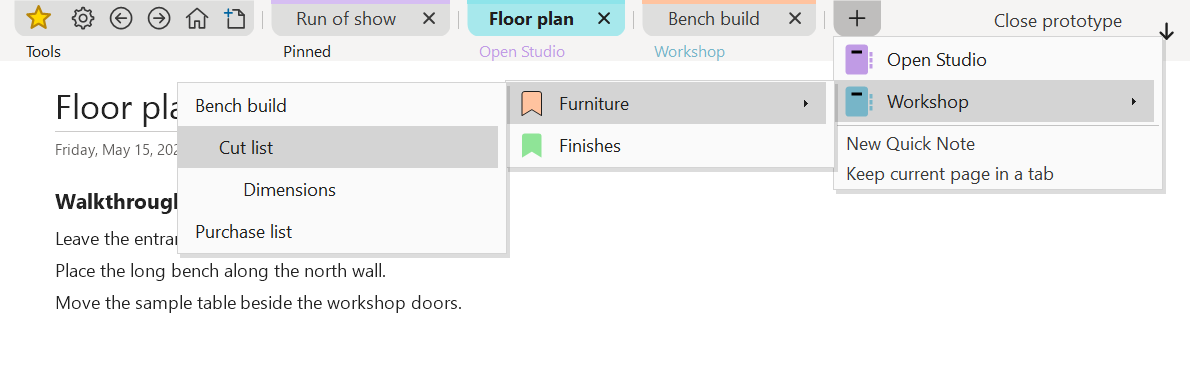
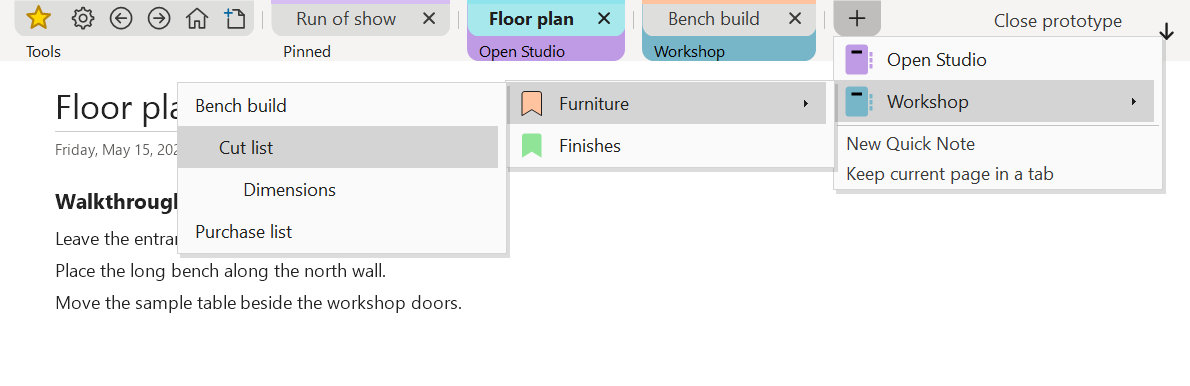
Give notebook groups rounded color bands and contrasting labels

Changed region(s): [[0.3731, 0.0933, 0.684, 0.1554]]

diff --git a/addins/page-tabs/prototype/AppearanceTests.cs b/addins/page-tabs/prototype/AppearanceTests.cs
@@ -58,6 +58,13 @@ internal static class AppearanceTests
                 }
                 strip.Host.Size = new Size(HostChrome.Px(950, dpi), HostChrome.StripHeight(dpi));
                 strip.ApplyAppearance(expected);
+                if (!contrast)
+                {
+                    var ordinary = strip.Items.OfType<PageTabButton>().Select(t => t.Group).Where(g => g.Notebook != null);
+                    Check(ordinary.Single(g => g.Text == "Atlas").ForeColor.ToArgb() == Color.White.ToArgb() &&
+                        ordinary.Single(g => g.Text == "Workshop").ForeColor.ToArgb() == Color.Black.ToArgb(),
+                        "Dark and light notebook bands must choose white and black caption text respectively.");
+                }
                 foreach (var selected in new[] { schedule, original })
                 {
                     selected.PerformClick();
@@ -99,7 +106,7 @@ internal static class AppearanceTests
         CheckOptions(strip, layout);
         Console.WriteLine("PASS long regular and bold titles leave clear space around the close icon at all four scales.");
         Console.WriteLine("PASS equal native-color tab stripes, muted selected fills and angled two-color bookmark rows at 96, 120, 144 and 192 DPI.");
-        Console.WriteLine("PASS compact notebook captions span the visible tabs in each group and use the notebook color at all four scales.");
+        Console.WriteLine("PASS rounded notebook backings, contrasting caption text and spacing at all four scales.");
         Console.WriteLine("PASS bookmark groups sort by notebook, retain page order and align section-color labels and page titles across groups.");
     }
 
@@ -151,9 +158,18 @@ internal static class AppearanceTests
         foreach (var surface in new[] { Color.White, Color.FromArgb(18,18,18) })
         {
             strip.ApplyAppearance(new HostChrome { Dpi = layout.Dpi, Surface = surface });
-            Check(grouped.All(t => t.Group.ForeColor == ((TabRenderer)strip.Renderer).Ink), "Default caption ink ignored the theme.");
+            Check(grouped.All(t => t.Group.GroupFill.IsEmpty && t.Group.ForeColor == ((TabRenderer)strip.Renderer).Ink),
+                "Turning off notebook colors must restore the theme background and caption text.");
         }
         colors.PerformClick();
+        using (var image = new Bitmap(strip.Width, strip.Height))
+        {
+            strip.DrawToBitmap(image, strip.ClientRectangle);
+            var firstTab = grouped[0];
+            Check(firstTab.Group == grouped[1].Group && grouped[1].Bounds.Left > firstTab.Bounds.Right &&
+                image.GetPixel(firstTab.Bounds.Right, strip.Height / 2).ToArgb() == firstTab.Group.Notebook.Color.ToArgb(),
+                "The notebook backing did not bridge the gap between two tabs in the same group.");
+        }
         TogglePin(strip, grouped[2], true);
         int fullDocument = layout.DocumentBounds.Height;
         labels.PerformClick();
@@ -400,7 +416,7 @@ internal static class AppearanceTests
             var band = strip.Host.Captions;
             var tools = band.Controls.OfType<NotebookTabLabel>().Single(l => l.Text == "Tools" && l.Notebook == null);
             Check(tools.Visible && tools.ForeColor == palette.Ink && tools.Font.Style == FontStyle.Regular &&
-                tools.Left == star.Bounds.Left + TabRenderer.CornerRadius(chrome.Dpi) && tools.Right == strip.MenuTabBounds.Right &&
+                tools.Left == star.Bounds.Left && tools.Padding.Left == TabRenderer.CornerRadius(chrome.Dpi) && tools.Right == strip.MenuTabBounds.Right &&
                 strip.Items.OfType<ToolButton>().All(t => t.Bounds.Top == star.Bounds.Top && t.Height == star.Height),
                 "Tools misalignment at " + chrome.Dpi + " DPI: label " + tools.Bounds + ", group " + strip.MenuTabBounds +
                 ", star " + star.Bounds + ", first command " + strip.Items.OfType<ToolButton>().First().Bounds + ".");
@@ -414,16 +430,27 @@ internal static class AppearanceTests
                     var label = group.Key;
                     var box = label.Bounds;
                     Check(label.Visible && !label.CanSelect && label.AccessibleName == label.Text && label.Font.Style == FontStyle.Regular &&
-                        label.Font.Size < first.Font.Size && box.Left == group.First().Bounds.Left + TabRenderer.CornerRadius(chrome.Dpi) && box.Right == group.Last().Bounds.Right &&
+                        label.Font.Size < first.Font.Size && box.Left == group.First().Bounds.Left && label.Padding.Left == TabRenderer.CornerRadius(chrome.Dpi) && box.Right == group.Last().Bounds.Right &&
                         box.Height == label.Font.Height, "A notebook caption did not fit its tabs on one compact line.");
-                    Color ink = chrome.HighContrast || label.Notebook == null || label.Notebook.Color.IsEmpty ? palette.Ink : label.Notebook.Color;
-                    Check(captions.GetPixel(box.Right - 1, box.Top).ToArgb() == palette.Surface.ToArgb(),
-                        "Notebook labels should use the strip background.");
+                    bool colored = !chrome.HighContrast && label.Notebook != null && !label.Notebook.Color.IsEmpty;
+                    Color fill = colored ? label.Notebook.Color : palette.Surface;
+                    Color ink = colored ? palette.NotebookInk(fill) : palette.Ink;
+                    int outer = bottom ? box.Top : box.Bottom - 1, seam = bottom ? box.Bottom - 1 : box.Top;
+                    var inside = new Point(box.Right - label.Padding.Right - 2 * edge, outer + (bottom ? edge : -edge));
+                    Check(captions.GetPixel(box.Left, outer).ToArgb() == palette.Surface.ToArgb() &&
+                        captions.GetPixel(box.Right - 1, outer).ToArgb() == palette.Surface.ToArgb() &&
+                        captions.GetPixel(box.Right - 1, seam).ToArgb() == fill.ToArgb() &&
+                        captions.GetPixel(inside.X, inside.Y).ToArgb() == fill.ToArgb() &&
+                        bitmap.GetPixel(box.Right - 1, bottom ? 0 : strip.Height - 1).ToArgb() == fill.ToArgb(),
+                        String.Format("Notebook backing for {0} at {1} DPI (bottom={2}): corners {3:X8}/{4:X8}, seam {5:X8}, outer {6:X8}, strip {7:X8}; expected surface {8:X8}, fill {9:X8}.",
+                            label.Text, chrome.Dpi, bottom, captions.GetPixel(box.Left, outer).ToArgb(), captions.GetPixel(box.Right - 1, outer).ToArgb(),
+                            captions.GetPixel(box.Right - 1, seam).ToArgb(), captions.GetPixel(inside.X, inside.Y).ToArgb(),
+                            bitmap.GetPixel(box.Right - 1, bottom ? 0 : strip.Height - 1).ToArgb(), palette.Surface.ToArgb(), fill.ToArgb()));
                     bool found = false;
-                    for (int x = box.Left; x < box.Right && !found; x++)
+                    for (int x = box.Left + label.Padding.Left; x < box.Right - label.Padding.Right && !found; x++)
                         for (int y = box.Top; y < box.Bottom && !found; y++)
                             found = captions.GetPixel(x, y).ToArgb() == ink.ToArgb();
-                    Check(found, "The notebook caption did not render in its notebook color.");
+                    Check(found, "The notebook caption did not render in its contrasting text color.");
                 }
             }
             Color starBackground = star.Pressed ? palette.Active : star.Selected ? palette.Hover : palette.Tab;
@@ -489,8 +516,9 @@ internal static class AppearanceTests
                     bitmap.GetPixel(tab.Bounds.Left + tab.Width / 2, FlatEdgeY(tab, !bottom, 2 * edge)).ToArgb() == fill.ToArgb(),
                     "Tab body fill does not match its selection state.");
             }
-            Check(bitmap.GetPixel(b.Left + edge - 1, FlatEdgeY(active, !bottom, 0)).ToArgb() == palette.Surface.ToArgb() &&
-                bitmap.GetPixel(b.Right - edge, FlatEdgeY(active, !bottom, 0)).ToArgb() == palette.Surface.ToArgb(),
+            Color behind = active.Group.GroupFill.IsEmpty ? palette.Surface : active.Group.GroupFill;
+            Check(bitmap.GetPixel(b.Left + edge - 1, FlatEdgeY(active, !bottom, 0)).ToArgb() == behind.ToArgb() &&
+                bitmap.GetPixel(b.Right - edge, FlatEdgeY(active, !bottom, 0)).ToArgb() == behind.ToArgb(),
                 "The active tab's corners facing the editor are not rounded.");
             return bitmap;
         }

diff --git a/addins/page-tabs/prototype/TabRenderer.cs b/addins/page-tabs/prototype/TabRenderer.cs
@@ -103,6 +103,7 @@ internal sealed class NotebookTabLabel : Label
 {
     internal BookmarkNotebook Notebook;
     internal ToolStripSeparator Divider;
+    internal Color GroupFill { get; set; }
     private const TextFormatFlags Flags = TextFormatFlags.SingleLine | TextFormatFlags.NoPrefix | TextFormatFlags.NoPadding;
     internal NotebookTabLabel()
     {
@@ -113,8 +114,27 @@ internal sealed class NotebookTabLabel : Label
     }
     protected override void OnPaint(PaintEventArgs e)
     {
-        TextRenderer.DrawText(e.Graphics, Text, Font, ClientRectangle, ForeColor,
+        if (!GroupFill.IsEmpty)
+        {
+            var saved = e.Graphics.Save();
+            using (var shape = TabRenderer.TabOutline(Width, Height, Padding.Left, Parent.Dock == DockStyle.Top))
+            using (var brush = new SolidBrush(GroupFill))
+            {
+                e.Graphics.SmoothingMode = SmoothingMode.AntiAlias;
+                e.Graphics.PixelOffsetMode = PixelOffsetMode.Half;
+                e.Graphics.FillPath(brush, shape);
+            }
+            e.Graphics.Restore(saved);
+        }
+        var title = new Rectangle(Padding.Left, 0, Math.Max(0, Width - Padding.Horizontal), Height);
+        TextRenderer.DrawText(e.Graphics, Text, Font, title, ForeColor,
             Flags | TextFormatFlags.VerticalCenter | TextFormatFlags.EndEllipsis);
+    }
+
+    internal void Align(int left, int right, int height, int inset)
+    {
+        Padding = new Padding(inset, 0, GroupFill.IsEmpty ? 0 : inset, 0);
+        Bounds = Rectangle.FromLTRB(left, 0, right, height);
     }
 }
 
@@ -140,6 +160,20 @@ internal sealed class TabRenderer : ToolStripProfessionalRenderer
         }
     }
     internal static int CornerRadius(uint dpi) { return HostChrome.Px(8, dpi); }
+    internal static GraphicsPath TabOutline(int width, int height, int radius, bool bottomDock)
+    {
+        var shape = new GraphicsPath();
+        int diameter = Math.Min(2 * radius, Math.Min(width, 2 * height));
+        if (diameter < 2) return shape;
+        int flat = bottomDock ? height : 0;
+        int arcTop = bottomDock ? 0 : height - diameter;
+        int turn = bottomDock ? -90 : 90;
+        shape.AddLine(0, flat, width, flat);
+        shape.AddArc(width - diameter, arcTop, diameter, diameter, 0, turn);
+        shape.AddArc(0, arcTop, diameter, diameter, turn, turn);
+        shape.CloseFigure();
+        return shape;
+    }
     internal TabRenderer(Color surface, uint dpi, bool highContrast, bool darkSections)
     {
         DarkSections = darkSections;
@@ -316,29 +350,21 @@ internal sealed class TabRenderer : ToolStripProfessionalRenderer
                 e.Graphics.TranslateTransform(both.Left - e.Item.Bounds.Left, 0);
                 w = both.Width;
             }
-            int diameter = Math.Min(2 * CornerRadius(Dpi), Math.Min(w, h));
-            if (diameter < 2) return;
-            if (strip != null && strip.AtBottom)
-            {
-                e.Graphics.TranslateTransform(0, h);
-                e.Graphics.ScaleTransform(1, -1);
-            }
+            bool bottom = strip != null && strip.AtBottom;
             e.Graphics.SmoothingMode = SmoothingMode.AntiAlias;
-            using (var shape = new GraphicsPath())
+            using (var shape = TabOutline(w, h, CornerRadius(Dpi), bottom))
             using (var fill = new SolidBrush(Background(e.Item)))
             {
-                shape.AddLine(0, 0, w, 0);
-                shape.AddArc(w - diameter, h - diameter, diameter, diameter, 0, 90);
-                shape.AddArc(0, h - diameter, diameter, diameter, 90, 90);
-                shape.CloseFigure();
+                if (shape.PointCount == 0) return;
                 e.Graphics.FillPath(fill, shape);
                 if (contrast)
                     using (var border = new Pen(Ink) { Alignment = PenAlignment.Inset }) e.Graphics.DrawPath(border, shape);
                 if (page != null)
                 {
                     e.Graphics.SmoothingMode = SmoothingMode.None;
+                    int stripe = HostChrome.Px(3, Dpi);
                     using (var marker = new SolidBrush(MarkerFor(page)))
-                        e.Graphics.FillRectangle(marker, 0, 0, w, HostChrome.Px(3, Dpi));
+                        e.Graphics.FillRectangle(marker, 0, bottom ? h - stripe : 0, w, stripe);
                 }
             }
         }

diff --git a/addins/page-tabs/prototype/PageStrip.cs b/addins/page-tabs/prototype/PageStrip.cs
@@ -541,6 +541,7 @@ internal sealed class PageStrip : ToolStrip
     {
         AtBottom = bottom;
         Host.Captions.Dock = bottom ? DockStyle.Top : DockStyle.Bottom;
+        Host.Captions.Invalidate(true);
         DefaultDropDownDirection = bottom ? ToolStripDropDownDirection.AboveRight : ToolStripDropDownDirection.BelowRight;
         Host.MoveButton.PointsUp = bottom;
         Host.MoveButton.Invalidate();
@@ -647,7 +648,14 @@ internal sealed class PageStrip : ToolStrip
     }
     private void StyleCaption(NotebookTabLabel label)
     {
-        label.ForeColor = appearance.HighContrast || !state.ColorNotebookLabels || label.Notebook == null || label.Notebook.Color.IsEmpty ? appearance.Ink : label.Notebook.Color;
+        Color fill = !appearance.HighContrast && state.ColorNotebookLabels && label.Notebook != null ? label.Notebook.Color : Color.Empty;
+        label.ForeColor = fill.IsEmpty ? appearance.Ink : appearance.NotebookInk(fill);
+        if (label.GroupFill != fill)
+        {
+            label.GroupFill = fill;
+            label.Invalidate();
+            Invalidate();
+        }
     }
     internal bool WantsCaptionRow { get { return state != null && state.GroupByNotebook && state.ShowNotebookLabels; } }
     private void RefreshOptions()
@@ -1025,10 +1033,24 @@ internal sealed class PageStrip : ToolStrip
         base.OnLayout(e);
         if (appearance != null && Host != null) AlignNotebookCaptions();
     }
+    protected override void OnPaintBackground(PaintEventArgs e)
+    {
+        base.OnPaintBackground(e);
+        if (!WantsCaptionRow) return;
+        // The caption and the tab strip have separate windows. Continue each visible
+        // caption's fill across the tab row before WinForms paints the individual tabs.
+        foreach (var label in labels.Values)
+        {
+            if (!label.Visible || label.GroupFill.IsEmpty) continue;
+            using (var fill = new SolidBrush(label.GroupFill))
+                e.Graphics.FillRectangle(fill, label.Left, 0, label.Width, Height);
+        }
+    }
     private void AlignNotebookCaptions()
     {
         var tools = MenuTabBounds;
-        toolsLabel.Bounds = Rectangle.FromLTRB(tools.Left + TabRenderer.CornerRadius(appearance.Dpi), 0, tools.Right, Host.Captions.Height);
+        int inset = TabRenderer.CornerRadius(appearance.Dpi);
+        toolsLabel.Align(tools.Left, tools.Right, Host.Captions.Height, inset);
         // Use the final main-row item bounds. Overflow pages and notebook names consume no caption width.
         var visible = Items.OfType<PageTabButton>().Where(t => t.Placement == ToolStripItemPlacement.Main).ToLookup(t => t.Group);
         foreach (var label in labels.Values)
@@ -1036,8 +1058,7 @@ internal sealed class PageStrip : ToolStrip
             var tabs = visible[label];
             var first = tabs.FirstOrDefault();
             if (first == null || !WantsCaptionRow) { label.Hide(); continue; }
-            label.Bounds = Rectangle.FromLTRB(first.Bounds.Left + TabRenderer.CornerRadius(first.Dpi), 0,
-                tabs.Last().Bounds.Right, Host.Captions.Height);
+            label.Align(first.Bounds.Left, tabs.Last().Bounds.Right, Host.Captions.Height, inset);
             label.Show();
         }
     }

diff --git a/addins/page-tabs/prototype/PrototypeTests.cs b/addins/page-tabs/prototype/PrototypeTests.cs
@@ -46,7 +46,7 @@ internal static class PrototypeTests
         public Color SectionColor(string id) { return id.StartsWith("a/") ? Color.FromArgb(145,186,174) : BookBColor; }
         public Dictionary<string, BookmarkLocation> PageLocations(IEnumerable<string> ids, bool refresh = false)
         {
-            var a = new BookmarkNotebook("a", "Atlas", Color.SteelBlue);
+            var a = new BookmarkNotebook("a", "Atlas", Color.MidnightBlue);
             var b = BookB;
             var personal = new BookmarkNotebook("personal", "Personal", Color.Coral);
             return ids.Distinct().ToDictionary(id => id, id => id.StartsWith("personal/") ? new BookmarkLocation(personal, "Quick Notes", SectionColor(id)) :

diff --git a/addins/page-tabs/README.md b/addins/page-tabs/README.md
@@ -39,7 +39,7 @@ MoreTabs starts below the Quick Access Toolbar. Click the down arrow at the far 
 
 MoreTabs uses OneNote's notebook navigation background in both tab views. In horizontal view it also aligns the star with the native notebook icon. In vertical view it samples the upper-left notebook navigation header and uses a DPI-scaled inset. The strip refreshes as the theme changes. While the header is hidden or covered, it keeps the last measured color. Until the first measurement it uses the Office or Windows theme setting. Windows high-contrast colors take precedence.
 
-![MoreTabs docked at the top, with two pinned pages and unpinned notebook groups](appearance.png)
+![MoreTabs docked at the top, with a pinned page and a colored backing behind each notebook group](appearance.png)
 
 ![MoreTabs docked at the bottom, with notebook captions above the tabs](appearance-bottom.png)
 
@@ -61,9 +61,11 @@ All three grouping and label options start enabled. Changes apply immediately. M
 | --- | --- |
 | **Group tabs by notebook** | Unpinned tabs return to saved tab order. Both label options are grayed out and OneNote gets the whole caption row back. |
 | **Show notebook labels** | Tabs stay grouped. All captions, including **Pinned**, disappear and OneNote gets the whole row back. The label color option is grayed out. |
-| **Use notebook colors for labels** | Notebook names use the theme's regular text color. Windows high contrast uses system text colors and disables this option. |
+| **Use notebook colors for labels** | The notebook bands disappear and the labels use the theme's regular text color. Windows high contrast uses the system background and text colors. |
 
-With grouping on, each notebook group starts at its first open tab in saved order. Tabs within each group keep their order. Captions sit below the tabs when docked at the top and above them when docked at the bottom. The smaller, regular-weight names start just past the first visible tab's rounded corner. Hover over a clipped caption to read its full name. Notebook IDs distinguish notebooks with the same name.
+With grouping on, the notebook color spans the caption and the space behind its visible tabs. Black or white caption text is chosen for contrast. The band is rounded along the edge facing the page, below the tabs when docked at the top and above them when docked at the bottom. The name starts one corner radius in from the first visible tab. Hover over a clipped caption to read its full name. Tools and Pinned use the theme background.
+
+Groups appear in order of their first open tab. Tabs within a group keep their saved order. Notebook IDs distinguish notebooks with the same name.
 
 The bookmarks menu lists notebooks alphabetically, with each notebook's icon and name on a band in its color. Within each notebook, pages appear in the order they were bookmarked. Each section label uses the native section tab color and ends in a forward-slanted edge. The page title sits on the muted section color. One shared column aligns titles across all notebook groups, including in the removal menu. Long section names are ellipsized once the column reaches half the screen's working width.
 
@@ -109,7 +111,7 @@ Run the launcher with `-Mode HandsOn` in a desktop PowerShell window. Wait for t
 
 ### Live desktop verification
 
-On November 24, 2026, the live verifier passed in OneNote `16.0.20715.20004` (x64) at 96 DPI. The verifier renamed a Quick Note, navigated its tab to the Dashboard page already open in a different tab, and returned to the renamed note. A subsequent live run also pinned and unpinned a tab while preserving the selection. The notebook icon started 25 pixels into the navigation row on a `#110C08` background. The preview above is a controlled render using those measurements. Controlled tests checked that the star's visible edge matches the notebook icon in dark, light and high-contrast palettes at 96, 120, 144 and 192 DPI.
+On November 24, 2026, the live verifier passed in OneNote `16.0.20715.20004` (x64) at 96 DPI. The verifier renamed a Quick Note, navigated its tab to the Dashboard page already open in a different tab, and returned to the renamed note. A subsequent live run also pinned and unpinned a tab while preserving the selection. The notebook icon started 25 pixels into the navigation row on a `#110C08` background. Controlled tests checked that the star's visible edge matches the notebook icon in dark, light and high-contrast palettes at 96, 120, 144 and 192 DPI.
 
 On November 24, 2026, prototype `bb88678` passed `Verify` in Windows desktop OneNote `16.0.20715.20004` (x64) at 96 DPI. The COM window handle belonged to a child of the measured editor frame. Matching its top-level ancestor selected the correct editor.
 
